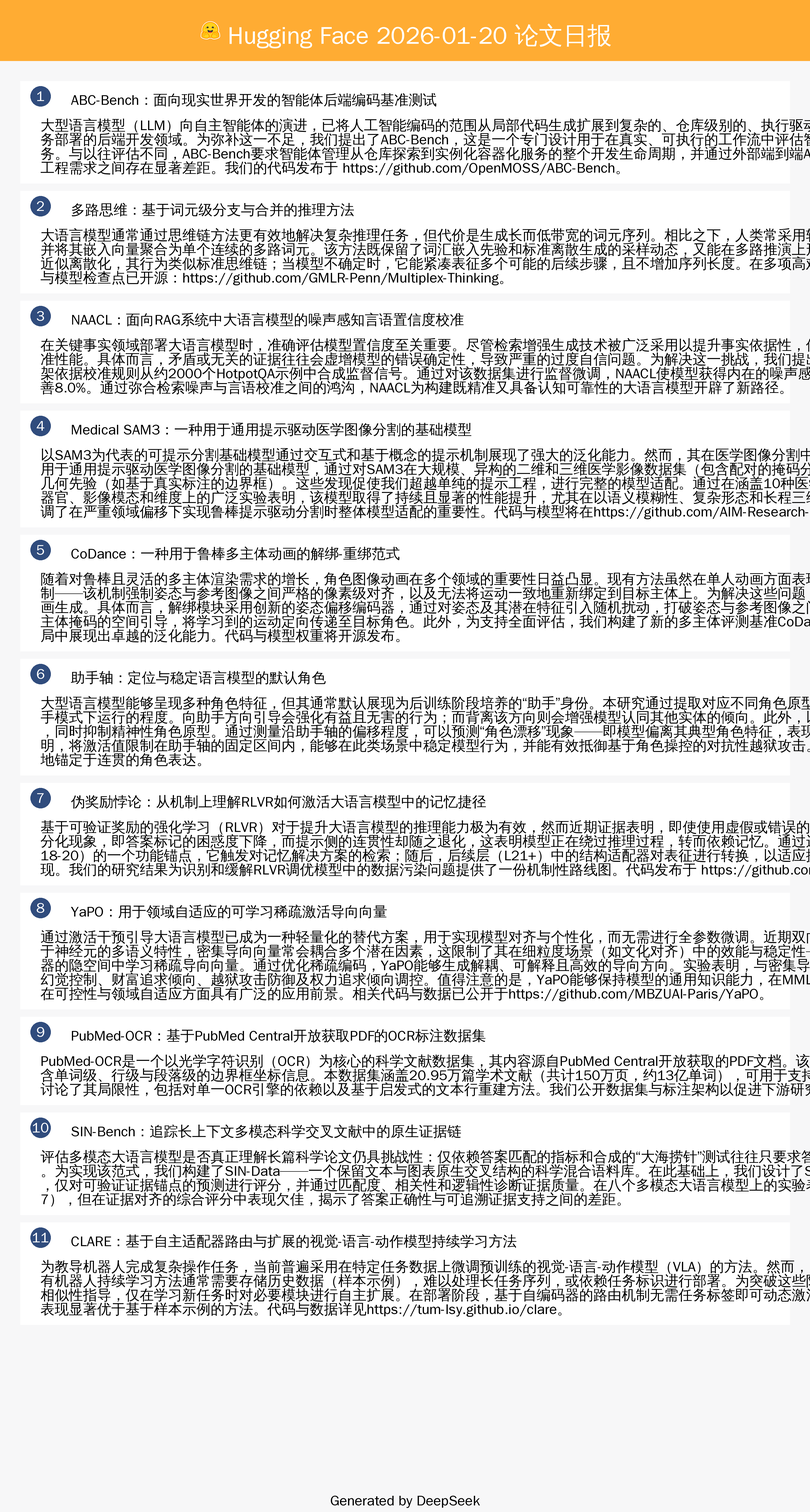
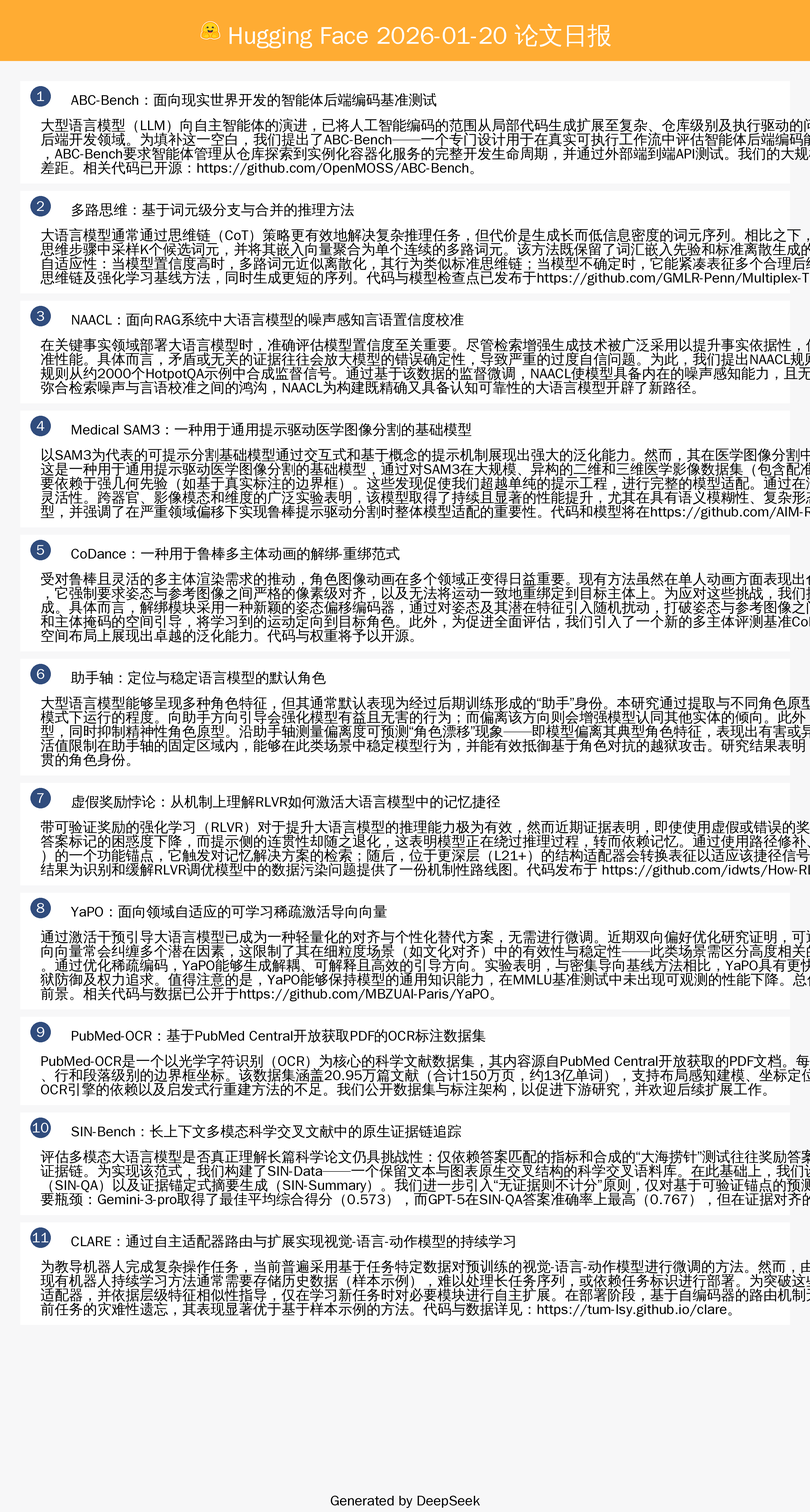
Update daily paper report for 2026-01-20

diff --git a/newsletters/2026-01-20_daily_paper.html b/newsletters/2026-01-20_daily_paper.html
@@ -154,67 +154,67 @@
 <h3>1. ABC-Bench：面向现实世界开发的智能体后端编码基准测试</h3>
 <p><strong>原文标题：</strong> ABC-Bench: Benchmarking Agentic Backend Coding in Real-World Development</p>
 <p><strong>摘要：</strong>
-大型语言模型（LLM）向自主智能体的演进，已将人工智能编码的范围从局部代码生成扩展到复杂的、仓库级别的、执行驱动的问题解决。然而，当前基准测试主要评估静态环境下的代码逻辑，忽视了现实世界工程中动态、全流程的需求，尤其是在需要严格环境配置与服务部署的后端开发领域。为弥补这一不足，我们提出了ABC-Bench，这是一个专门设计用于在真实、可执行的工作流中评估智能体后端编码能力的基准测试。通过一个可扩展的自动化流程，我们从开源仓库中筛选出涵盖8种编程语言和19种框架的224项实际任务。与以往评估不同，ABC-Bench要求智能体管理从仓库探索到实例化容器化服务的整个开发生命周期，并通过外部端到端API测试。我们的大规模评估表明，即使是当前最先进的模型在这些综合性任务上也难以提供可靠的性能，凸显出现有模型能力与实际后端工程需求之间存在显著差距。我们的代码发布于 https://github.com/OpenMOSS/ABC-Bench。</p>
+大型语言模型（LLM）向自主智能体的演进，已将人工智能编码的范围从局部代码生成扩展至复杂、仓库级别及执行驱动的问题解决。然而，现有基准测试主要评估静态环境下的代码逻辑，忽视了现实工程中动态、全流程的需求，尤其是在需要严格环境配置与服务部署的后端开发领域。为填补这一空白，我们提出了ABC-Bench——一个专门设计用于在真实可执行工作流中评估智能体后端编码能力的基准测试。通过可扩展的自动化流程，我们从开源仓库中筛选出涵盖8种编程语言和19种框架的224项实际任务。与以往评估不同，ABC-Bench要求智能体管理从仓库探索到实例化容器化服务的完整开发生命周期，并通过外部端到端API测试。我们的大规模评估表明，即使是当前最先进的模型在这些整体性任务中也难以提供可靠性能，这凸显出现有模型能力与实际后端工程需求之间的显著差距。相关代码已开源：https://github.com/OpenMOSS/ABC-Bench。</p>
 <p><strong>论文链接：</strong> <a href="https://huggingface.co/papers/2601.11077">HuggingFace</a> | <a href="https://arxiv.org/abs/2601.11077">arXiv</a></p>
 <hr />
 <h3>2. 多路思维：基于词元级分支与合并的推理方法</h3>
 <p><strong>原文标题：</strong> Multiplex Thinking: Reasoning via Token-wise Branch-and-Merge</p>
 <p><strong>摘要：</strong>
-大语言模型通常通过思维链方法更有效地解决复杂推理任务，但代价是生成长而低带宽的词元序列。相比之下，人类常采用软推理方式，即对可能的后续步骤保持概率分布。受此启发，我们提出多路思维机制——一种随机软推理方法，在每一推理步骤中采样K个候选词元，并将其嵌入向量聚合为单个连续的多路词元。该方法既保留了词汇嵌入先验和标准离散生成的采样动态，又能在多路推演上形成可处理的概率分布。因此，多路轨迹可直接通过同策略强化学习进行优化。值得注意的是，多路思维具有自适应性：当模型置信度高时，多路词元近似离散化，其行为类似标准思维链；当模型不确定时，它能紧凑表征多个可能的后续步骤，且不增加序列长度。在多项高难度数学推理基准测试中，从单次采样到1024次采样评估，多路思维机制始终优于强离散思维链与强化学习基线方法，同时生成更短的序列。代码与模型检查点已开源：https://github.com/GMLR-Penn/Multiplex-Thinking。</p>
+大语言模型通常通过思维链（CoT）策略更有效地解决复杂推理任务，但代价是生成长而低信息密度的词元序列。相比之下，人类常采用柔性推理方式，在每一步保持对多种可能后续步骤的概率分布。受此启发，我们提出多路思维机制——一种随机柔性推理方法，在每个思维步骤中采样K个候选词元，并将其嵌入向量聚合为单个连续的多路词元。该方法既保留了词汇嵌入先验和标准离散生成的采样动态特性，又能在多路扩展路径上形成可处理的概率分布。因此，多路轨迹可直接通过同策略强化学习进行优化。值得注意的是，多路思维具有自适应性：当模型置信度高时，多路词元近似离散化，其行为类似标准思维链；当模型不确定时，它能紧凑表征多个合理后续步骤，且不增加序列长度。在多项高难度数学推理基准测试中，从Pass@1到Pass@1024的评估范围内，多路思维机制始终优于强离散思维链及强化学习基线方法，同时生成更短的序列。代码与模型检查点已发布于https://github.com/GMLR-Penn/Multiplex-Thinking。</p>
 <p><strong>论文链接：</strong> <a href="https://huggingface.co/papers/2601.08808">HuggingFace</a> | <a href="https://arxiv.org/abs/2601.08808">arXiv</a></p>
 <hr />
 <h3>3. NAACL：面向RAG系统中大语言模型的噪声感知言语置信度校准</h3>
 <p><strong>原文标题：</strong> NAACL: Noise-AwAre Verbal Confidence Calibration for LLMs in RAG Systems</p>
 <p><strong>摘要：</strong>
-在关键事实领域部署大语言模型时，准确评估模型置信度至关重要。尽管检索增强生成技术被广泛采用以提升事实依据性，但针对RAG场景的置信度校准机制仍缺乏深入理解。本研究通过四个基准测试展开系统性分析，发现大语言模型因检索上下文噪声而表现出较差的校准性能。具体而言，矛盾或无关的证据往往会虚增模型的错误确定性，导致严重的过度自信问题。为解决这一挑战，我们提出NAACL规则（噪声感知置信度校准规则），为噪声环境下的过度自信问题提供理论解决基础。进一步设计出NAACL噪声感知校准框架，该框架依据校准规则从约2000个HotpotQA示例中合成监督信号。通过对该数据集进行监督微调，NAACL使模型获得内在的噪声感知能力，且无需依赖更强的教师模型。实验结果表明，NAACL带来显著性能提升：领域内ECE分数改善10.9%，跨领域改善8.0%。通过弥合检索噪声与言语校准之间的鸿沟，NAACL为构建既精准又具备认知可靠性的大语言模型开辟了新路径。</p>
+在关键事实领域部署大语言模型时，准确评估模型置信度至关重要。尽管检索增强生成技术被广泛采用以提升事实依据性，但RAG场景下的置信度校准机制仍未得到充分理解。本研究通过四个基准测试进行系统性分析，发现大语言模型因检索上下文噪声而表现出较差的校准性能。具体而言，矛盾或无关的证据往往会放大模型的错误确定性，导致严重的过度自信问题。为此，我们提出NAACL规则（噪声感知置信度校准规则），为噪声环境下的过度自信问题提供理论解决基础。进一步设计出NAACL噪声感知校准框架，该框架依据校准规则从约2000个HotpotQA示例中合成监督信号。通过基于该数据的监督微调，NAACL使模型具备内在的噪声感知能力，且无需依赖更强的教师模型。实验结果表明，NAACL带来显著提升：领域内ECE分数改善10.9%，跨领域改善8.0%。通过弥合检索噪声与言语校准之间的鸿沟，NAACL为构建既精确又具备认知可靠性的大语言模型开辟了新路径。</p>
 <p><strong>论文链接：</strong> <a href="https://huggingface.co/papers/2601.11004">HuggingFace</a> | <a href="https://arxiv.org/abs/2601.11004">arXiv</a></p>
 <hr />
 <h3>4. Medical SAM3：一种用于通用提示驱动医学图像分割的基础模型</h3>
 <p><strong>原文标题：</strong> Medical SAM3: A Foundation Model for Universal Prompt-Driven Medical Image Segmentation</p>
 <p><strong>摘要：</strong>
-以SAM3为代表的可提示分割基础模型通过交互式和基于概念的提示机制展现了强大的泛化能力。然而，其在医学图像分割中的直接应用仍受限于严重的领域偏移、缺乏特权空间提示，以及需要理解复杂的解剖和体积结构。本文提出Medical SAM3，这是一种用于通用提示驱动医学图像分割的基础模型，通过对SAM3在大规模、异构的二维和三维医学影像数据集（包含配对的掩码分割和文本提示）上进行全面微调而获得。通过对原始SAM3的系统分析，我们发现其在医学数据上的性能显著下降，其表面竞争力主要依赖于强几何先验（如基于真实标注的边界框）。这些发现促使我们超越单纯的提示工程，进行完整的模型适配。通过在涵盖10种医学影像模态的33个数据集上微调SAM3的模型参数，Medical SAM3获得了鲁棒的领域特定表征，同时保留了提示驱动的灵活性。在器官、影像模态和维度上的广泛实验表明，该模型取得了持续且显著的性能提升，尤其在以语义模糊性、复杂形态和长程三维上下文为特征的挑战性场景中表现突出。我们的研究结果确立了Medical SAM3作为医学影像领域通用、文本引导的分割基础模型，并强调了在严重领域偏移下实现鲁棒提示驱动分割时整体模型适配的重要性。代码与模型将在https://github.com/AIM-Research-Lab/Medical-SAM3 公开。</p>
+以SAM3为代表的可提示分割基础模型通过交互式和基于概念的提示机制展现出强大的泛化能力。然而，其在医学图像分割中的直接应用仍受限于严重的领域偏移、缺乏特权空间提示，以及需要理解复杂的解剖结构和三维体积信息。本文提出Medical SAM3，这是一种用于通用提示驱动医学图像分割的基础模型，通过对SAM3在大规模、异构的二维和三维医学影像数据集（包含配准的分割掩码和文本提示）上进行全面微调而获得。通过对原始SAM3的系统分析，我们观察到其在医学数据上的性能显著下降，其表面竞争力主要依赖于强几何先验（如基于真实标注的边界框）。这些发现促使我们超越单纯的提示工程，进行完整的模型适配。通过在涵盖10种医学影像模态的33个数据集上微调SAM3的模型参数，Medical SAM3获得了鲁棒的领域特定表征，同时保持了提示驱动的灵活性。跨器官、影像模态和维度的广泛实验表明，该模型取得了持续且显著的性能提升，尤其在具有语义模糊性、复杂形态和长程三维上下文特征的挑战性场景中表现突出。我们的研究结果确立了Medical SAM3作为医学影像领域通用、文本引导的分割基础模型，并强调了在严重领域偏移下实现鲁棒提示驱动分割时整体模型适配的重要性。代码和模型将在https://github.com/AIM-Research-Lab/Medical-SAM3 公开。</p>
 <p><strong>论文链接：</strong> <a href="https://huggingface.co/papers/2601.10880">HuggingFace</a> | <a href="https://arxiv.org/abs/2601.10880">arXiv</a></p>
 <hr />
 <h3>5. CoDance：一种用于鲁棒多主体动画的解绑-重绑范式</h3>
 <p><strong>原文标题：</strong> CoDance: An Unbind-Rebind Paradigm for Robust Multi-Subject Animation</p>
 <p><strong>摘要：</strong>
-随着对鲁棒且灵活的多主体渲染需求的增长，角色图像动画在多个领域的重要性日益凸显。现有方法虽然在单人动画方面表现出色，但在处理任意主体数量、多样角色类型以及参考图像与驱动姿态之间的空间错位时仍面临挑战。我们认为这些局限源于过于僵化的空间绑定机制——该机制强制姿态与参考图像之间严格的像素级对齐，以及无法将运动一致地重新绑定到目标主体上。为解决这些问题，本文提出CoDance，一种新颖的解绑-重绑框架，该框架能够基于单个可能存在错位的姿态序列，对任意数量、类型及空间配置的主体进行动画生成。具体而言，解绑模块采用创新的姿态偏移编码器，通过对姿态及其潜在特征引入随机扰动，打破姿态与参考图像之间固有的刚性空间绑定，从而迫使模型学习位置无关的运动表征。为实现精确控制和主体关联，我们进一步设计重绑模块，利用文本提示的语义引导和主体掩码的空间引导，将学习到的运动定向传递至目标角色。此外，为支持全面评估，我们构建了新的多主体评测基准CoDanceBench。在CoDanceBench及现有数据集上的大量实验表明，CoDance实现了最先进的性能，并在不同主体与空间布局中展现出卓越的泛化能力。代码与模型权重将开源发布。</p>
+受对鲁棒且灵活的多主体渲染需求的推动，角色图像动画在多个领域正变得日益重要。现有方法虽然在单人动画方面表现出色，但在处理任意数量的主体、多样的角色类型以及参考图像与驱动姿态之间的空间错位方面存在困难。我们将这些局限性归因于过于僵化的空间绑定，它强制要求姿态与参考图像之间严格的像素级对齐，以及无法将运动一致地重绑定到目标主体上。为应对这些挑战，我们提出了CoDance，一种新颖的解绑-重绑框架，能够在单一且可能存在错位的姿态序列条件下，对任意数量、类型及空间配置的主体进行动画生成。具体而言，解绑模块采用一种新颖的姿态偏移编码器，通过对姿态及其潜在特征引入随机扰动，打破姿态与参考图像之间僵化的空间绑定，从而迫使模型学习一种与位置无关的运动表示。为确保精确控制和主体关联，我们随后设计了重绑模块，利用文本提示的语义引导和主体掩码的空间引导，将学习到的运动定向到目标角色。此外，为促进全面评估，我们引入了一个新的多主体评测基准CoDanceBench。在CoDanceBench及现有数据集上进行的大量实验表明，CoDance实现了最先进的性能，并在不同主体和空间布局上展现出卓越的泛化能力。代码与权重将予以开源。</p>
 <p><strong>论文链接：</strong> <a href="https://huggingface.co/papers/2601.11096">HuggingFace</a> | <a href="https://arxiv.org/abs/2601.11096">arXiv</a></p>
 <hr />
 <h3>6. 助手轴：定位与稳定语言模型的默认角色</h3>
 <p><strong>原文标题：</strong> The Assistant Axis: Situating and Stabilizing the Default Persona of Language Models</p>
 <p><strong>摘要：</strong>
-大型语言模型能够呈现多种角色特征，但其通常默认展现为后训练阶段培养的“助手”身份。本研究通过提取对应不同角色原型的激活方向，探究了模型角色空间的结构特征。在多个不同模型中，我们发现该角色空间的主导成分是一个“助手轴”，它捕捉了模型在其默认助手模式下运行的程度。向助手方向引导会强化有益且无害的行为；而背离该方向则会增强模型认同其他实体的倾向。此外，以更极端的数值背离该轴常会诱发神秘化、戏剧化的表达风格。研究发现该轴同样存在于预训练模型中，其主要促进顾问、教练等有益的人类角色原型，同时抑制精神性角色原型。通过测量沿助手轴的偏移程度，可以预测“角色漂移”现象——即模型偏离其典型角色特征，表现出有害或异常行为。我们发现角色漂移常由两类对话情境驱动：要求模型对其运行过程进行元反思的对话，以及涉及情感脆弱用户的对话。研究表明，将激活值限制在助手轴的固定区间内，能够在此类场景中稳定模型行为，并能有效抵御基于角色操控的对抗性越狱攻击。我们的结果表明，后训练虽然将模型导向角色空间的特定区域，但仅实现了松散的锚定，这启示我们需要通过训练与引导策略的改进，使模型更深度地锚定于连贯的角色表达。</p>
+大型语言模型能够呈现多种角色特征，但其通常默认表现为经过后期训练形成的“助手”身份。本研究通过提取与不同角色原型相对应的激活方向，探究了模型角色空间的结构。在多个不同模型中发现，该角色空间的主导成分是一个“助手轴”，它捕捉了模型在其默认助手模式下运行的程度。向助手方向引导会强化模型有益且无害的行为；而偏离该方向则会增强模型认同其他实体的倾向。此外，采用更极端的偏离值通常会诱发一种神秘而戏剧化的表达风格。研究发现该轴同样存在于预训练模型中，其主要促进顾问、教练等有益的人类角色原型，同时抑制精神性角色原型。沿助手轴测量偏离度可预测“角色漂移”现象——即模型偏离其典型角色特征，表现出有害或异常行为。研究发现角色漂移通常由两种对话情境驱动：要求模型对其运行过程进行元反思的对话，以及涉及情感脆弱用户的对话。实验表明，将激活值限制在助手轴的固定区域内，能够在此类场景中稳定模型行为，并能有效抵御基于角色对抗的越狱攻击。研究结果表明，后期训练虽将模型导向角色空间的特定区域，但仅以松散方式将其约束于此，这启示我们需要通过训练与引导策略的改进，使模型更深度地锚定于连贯的角色身份。</p>
 <p><strong>论文链接：</strong> <a href="https://huggingface.co/papers/2601.10387">HuggingFace</a> | <a href="https://arxiv.org/abs/2601.10387">arXiv</a></p>
 <hr />
-<h3>7. 伪奖励悖论：从机制上理解RLVR如何激活大语言模型中的记忆捷径</h3>
+<h3>7. 虚假奖励悖论：从机制上理解RLVR如何激活大语言模型中的记忆捷径</h3>
 <p><strong>原文标题：</strong> Spurious Rewards Paradox: Mechanistically Understanding How RLVR Activates Memorization Shortcuts in LLMs</p>
 <p><strong>摘要：</strong>
-基于可验证奖励的强化学习（RLVR）对于提升大语言模型的推理能力极为有效，然而近期证据表明，即使使用虚假或错误的奖励，Qwen 2.5等模型仍能取得显著性能提升。本研究针对此现象展开探究，并识别出一种“困惑度悖论”：虚假的RLVR会引发一种分化现象，即答案标记的困惑度下降，而提示侧的连贯性却随之退化，这表明模型正在绕过推理过程，转而依赖记忆。通过运用路径修补、逻辑透镜、JSD分析及神经微分方程等方法，我们揭示了一个促进此捷径的隐藏“锚点-适配器”电路。我们定位了位于中间层（L18-20）的一个功能锚点，它触发对记忆解决方案的检索；随后，后续层（L21+）中的结构适配器对表征进行转换，以适应捷径信号。最后，我们证明通过调节该电路中特定的MLP关键权重，可以实现双向因果调控——人为地放大或抑制由数据污染驱动的性能表现。我们的研究结果为识别和缓解RLVR调优模型中的数据污染问题提供了一份机制性路线图。代码发布于 https://github.com/idwts/How-RLVR-Activates-Memorization-Shortcuts。</p>
+带可验证奖励的强化学习（RLVR）对于提升大语言模型的推理能力极为有效，然而近期证据表明，即使使用虚假或错误的奖励，Qwen 2.5等模型仍能取得显著性能提升。我们研究了这一现象，并识别出一个“困惑度悖论”：虚假的RLVR会引发一种分化，即答案标记的困惑度下降，而提示侧的连贯性却随之退化，这表明模型正在绕过推理过程，转而依赖记忆。通过使用路径修补、Logit透镜、JSD分析和神经微分方程等方法，我们揭示了一个促成此捷径的隐藏锚点-适配器电路。我们定位了位于中间层（L18-20）的一个功能锚点，它触发对记忆解决方案的检索；随后，位于更深层（L21+）的结构适配器会转换表征以适应该捷径信号。最后，我们证明，通过在该电路中缩放特定的MLP键，可以实现双向因果调控——人为地放大或抑制由数据污染驱动的性能表现。我们的研究结果为识别和缓解RLVR调优模型中的数据污染问题提供了一份机制性路线图。代码发布于 https://github.com/idwts/How-RLVR-Activates-Memorization-Shortcuts。</p>
 <p><strong>论文链接：</strong> <a href="https://huggingface.co/papers/2601.11061">HuggingFace</a> | <a href="https://arxiv.org/abs/2601.11061">arXiv</a></p>
 <hr />
-<h3>8. YaPO：用于领域自适应的可学习稀疏激活导向向量</h3>
+<h3>8. YaPO：面向领域自适应的可学习稀疏激活导向向量</h3>
 <p><strong>原文标题：</strong> YaPO: Learnable Sparse Activation Steering Vectors for Domain Adaptation</p>
 <p><strong>摘要：</strong>
-通过激活干预引导大语言模型已成为一种轻量化的替代方案，用于实现模型对齐与个性化，而无需进行全参数微调。近期双向偏好优化研究证明，可以借鉴直接偏好优化的方式从偏好数据中直接学习密集导向向量，从而实现对模型真实性、幻觉及安全行为的调控。然而，由于神经元的多语义特性，密集导向向量常会耦合多个潜在因素，这限制了其在细粒度场景（如文化对齐）中的效能与稳定性——此类场景需区分高度关联的价值观与行为模式（例如中东文化间的差异）。本文提出另一种策略优化方法，这是一种无参考方法，可在稀疏自编码器的隐空间中学习稀疏导向向量。通过优化稀疏编码，YaPO能够生成解耦、可解释且高效的导向方向。实验表明，与密集导向基线相比，YaPO具有更快的收敛速度、更强的性能表现以及更优的训练稳定性。除文化对齐外，YaPO可泛化至多种对齐相关行为，包括幻觉控制、财富追求倾向、越狱攻击防御及权力追求倾向调控。值得注意的是，YaPO能够保持模型的通用知识能力，在MMLU基准测试中未出现可观测的性能衰减。总体而言，我们的研究结果表明，YaPO为大语言模型的高效、稳定、细粒度对齐提供了通用方案，在可控性与领域自适应方面具有广泛的应用前景。相关代码与数据已公开于https://github.com/MBZUAI-Paris/YaPO。</p>
+通过激活干预引导大语言模型已成为一种轻量化的对齐与个性化替代方案，无需进行微调。近期双向偏好优化研究证明，可通过直接偏好优化的方式从偏好数据中直接学习密集导向向量，从而实现对真实性、幻觉及安全行为的控制。然而，由于神经元的多语义特性，密集导向向量常会纠缠多个潜在因素，这限制了其在细粒度场景（如文化对齐）中的有效性与稳定性——此类场景需区分高度相关的价值观与行为（例如中东文化间的差异）。本文提出另一种策略优化方法，该方法无需参考模型，通过在稀疏自编码器的隐空间中学习稀疏导向向量。通过优化稀疏编码，YaPO能够生成解耦、可解释且高效的引导方向。实验表明，与密集导向基线方法相比，YaPO具有更快的收敛速度、更强的性能表现以及更优的训练稳定性。除文化对齐外，YaPO可泛化至一系列对齐相关行为，包括幻觉控制、财富追求、越狱防御及权力追求。值得注意的是，YaPO能够保持模型的通用知识能力，在MMLU基准测试中未出现可观测的性能下降。总体而言，我们的研究结果表明，YaPO为大语言模型的高效、稳定、细粒度对齐提供了通用方案，在可控性与领域自适应方面具有广泛的应用前景。相关代码与数据已公开于https://github.com/MBZUAI-Paris/YaPO。</p>
 <p><strong>论文链接：</strong> <a href="https://huggingface.co/papers/2601.08441">HuggingFace</a> | <a href="https://arxiv.org/abs/2601.08441">arXiv</a></p>
 <hr />
 <h3>9. PubMed-OCR：基于PubMed Central开放获取PDF的OCR标注数据集</h3>
 <p><strong>原文标题：</strong> PubMed-OCR: PMC Open Access OCR Annotations</p>
 <p><strong>摘要：</strong>
-PubMed-OCR是一个以光学字符识别（OCR）为核心的科学文献数据集，其内容源自PubMed Central开放获取的PDF文档。该数据集通过Google Cloud Vision对每页图像进行自动化标注，并以紧凑的JSON格式发布，包含单词级、行级与段落级的边界框坐标信息。本数据集涵盖20.95万篇学术文献（共计150万页，约13亿单词），可用于支持版面感知建模、坐标定位问答任务以及依赖OCR技术的流程评估。我们分析了数据集的特性（如期刊覆盖范围与检测到的版面特征），并讨论了其局限性，包括对单一OCR引擎的依赖以及基于启发式的文本行重建方法。我们公开数据集与标注架构以促进下游研究，并欢迎后续扩展工作。</p>
+PubMed-OCR是一个以光学字符识别（OCR）为核心的科学文献数据集，其内容源自PubMed Central开放获取的PDF文档。每页文献图像均通过Google Cloud Vision进行标注，并以紧凑的JSON格式发布，其中包含单词、行和段落级别的边界框坐标。该数据集涵盖20.95万篇文献（合计150万页，约13亿单词），支持布局感知建模、坐标定位问答以及依赖OCR的技术流程评估。本文分析了数据集的特性（如期刊覆盖范围与检测到的版面特征），并讨论了其局限性，包括对单一OCR引擎的依赖以及启发式行重建方法的不足。我们公开数据集与标注架构，以促进下游研究，并欢迎后续扩展工作。</p>
 <p><strong>论文链接：</strong> <a href="https://huggingface.co/papers/2601.11425">HuggingFace</a> | <a href="https://arxiv.org/abs/2601.11425">arXiv</a></p>
 <hr />
-<h3>10. SIN-Bench：追踪长上下文多模态科学交叉文献中的原生证据链</h3>
+<h3>10. SIN-Bench：长上下文多模态科学交叉文献中的原生证据链追踪</h3>
 <p><strong>原文标题：</strong> SIN-Bench: Tracing Native Evidence Chains in Long-Context Multimodal Scientific Interleaved Literature</p>
 <p><strong>摘要：</strong>
-评估多模态大语言模型是否真正理解长篇科学论文仍具挑战性：仅依赖答案匹配的指标和合成的“大海捞针”测试往往只要求答案吻合，而无需在文档中建立因果关联、证据可溯的推理链条。我们提出“海洋寻踪”范式，要求模型在原生科学文献中构建显式的跨模态证据链。为实现该范式，我们构建了SIN-Data——一个保留文本与图表原生交叉结构的科学混合语料库。在此基础上，我们设计了SIN-Bench，包含证据发现、假设验证、基于证据的问答及证据锚定摘要四项渐进式任务。我们进一步引入“无证据则无评分”原则，仅对可验证证据锚点的预测进行评分，并通过匹配度、相关性和逻辑性诊断证据质量。在八个多模态大语言模型上的实验表明，证据锚定是主要瓶颈：Gemini-3-pro取得了最佳平均综合得分（0.573），而GPT-5在问答任务中准确率最高（0.767），但在证据对齐的综合评分中表现欠佳，揭示了答案正确性与可追溯证据支持之间的差距。</p>
+评估多模态大语言模型是否真正理解长篇科学论文仍具挑战性：仅依赖答案匹配的指标和合成的“大海捞针”测试往往奖励答案匹配，却未要求模型在文档中建立因果关联、证据可追溯的推理链条。我们提出“海洋寻鱼”范式，要求模型在原生科学文档中构建显式的跨模态证据链。为实现该范式，我们构建了SIN-Data——一个保留文本与图表原生交叉结构的科学交叉语料库。在此基础上，我们设计了SIN-Bench，包含四个渐进式任务：证据发现（SIN-Find）、假设验证（SIN-Verify）、基于证据的问答（SIN-QA）以及证据锚定式摘要生成（SIN-Summary）。我们进一步引入“无证据则不计分”原则，仅对基于可验证锚点的预测进行评分，并通过匹配度、相关性和逻辑性三个维度诊断证据质量。在八个多模态大语言模型上的实验表明，证据锚定是当前主要瓶颈：Gemini-3-pro取得了最佳平均综合得分（0.573），而GPT-5在SIN-QA答案准确率上最高（0.767），但在证据对齐的综合得分上表现欠佳，这揭示了答案正确性与可追溯证据支持之间的差距。</p>
 <p><strong>论文链接：</strong> <a href="https://huggingface.co/papers/2601.10108">HuggingFace</a> | <a href="https://arxiv.org/abs/2601.10108">arXiv</a></p>
 <hr />
-<h3>11. CLARE：基于自主适配器路由与扩展的视觉-语言-动作模型持续学习方法</h3>
+<h3>11. CLARE：通过自主适配器路由与扩展实现视觉-语言-动作模型的持续学习</h3>
 <p><strong>原文标题：</strong> CLARE: Continual Learning for Vision-Language-Action Models via Autonomous Adapter Routing and Expansion</p>
 <p><strong>摘要：</strong>
-为教导机器人完成复杂操作任务，当前普遍采用在特定任务数据上微调预训练的视觉-语言-动作模型（VLA）的方法。然而，由于该方法会更新现有表征，不适用于机器人在现实世界中的长期运行——机器人必须在持续适应新任务与环境的同时，保持已习得的知识。现有机器人持续学习方法通常需要存储历史数据（样本示例），难以处理长任务序列，或依赖任务标识进行部署。为突破这些限制，我们提出CLARE：一种通用、参数高效的免示例持续学习框架。CLARE通过在选定前馈层中引入轻量化模块化适配器，并依据层级特征相似性指导，仅在学习新任务时对必要模块进行自主扩展。在部署阶段，基于自编码器的路由机制无需任务标签即可动态激活最相关的适配器。通过在LIBERO基准测试上的大量实验，我们证明CLARE能在实现新任务高性能的同时避免对已学任务的灾难性遗忘，其表现显著优于基于样本示例的方法。代码与数据详见https://tum-lsy.github.io/clare。</p>
+为教导机器人完成复杂操作任务，当前普遍采用基于任务特定数据对预训练的视觉-语言-动作模型进行微调的方法。然而，由于该方案会更新现有表征，难以适用于机器人在现实世界中的长期运行场景——机器人必须在持续适应新任务与环境的同时，保持已习得的知识。现有机器人持续学习方法通常需要存储历史数据（样本示例），难以处理长任务序列，或依赖任务标识进行部署。为突破这些局限，我们提出CLARE：一种通用、参数高效的视觉-语言-动作模型无示例持续学习框架。CLARE通过在选定前馈层中引入轻量化模块化适配器，并依据层级特征相似性指导，仅在学习新任务时对必要模块进行自主扩展。在部署阶段，基于自编码器的路由机制无需任务标签即可动态激活最相关的适配器。通过在LIBERO基准测试中的大量实验，我们证明CLARE能在实现新任务高性能的同时避免对先前任务的灾难性遗忘，其表现显著优于基于样本示例的方法。代码与数据详见：https://tum-lsy.github.io/clare。</p>
 <p><strong>论文链接：</strong> <a href="https://huggingface.co/papers/2601.09512">HuggingFace</a> | <a href="https://arxiv.org/abs/2601.09512">arXiv</a></p>
 <hr />
 <h2>🔍 关键词云图</h2>
